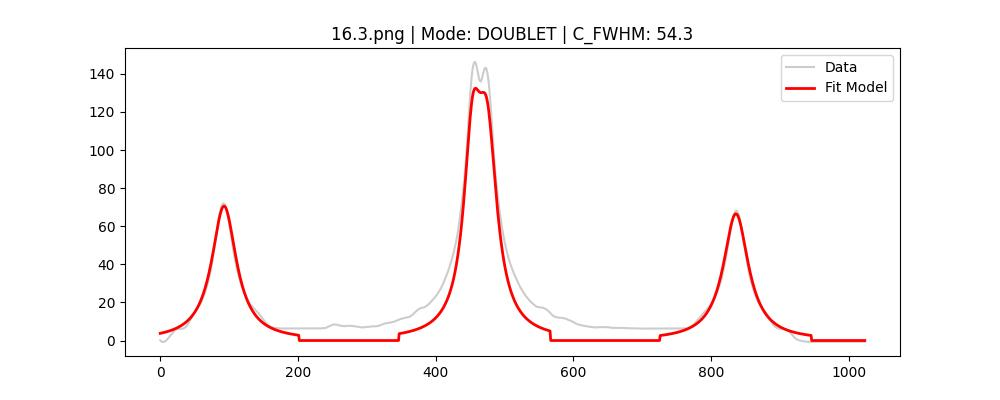
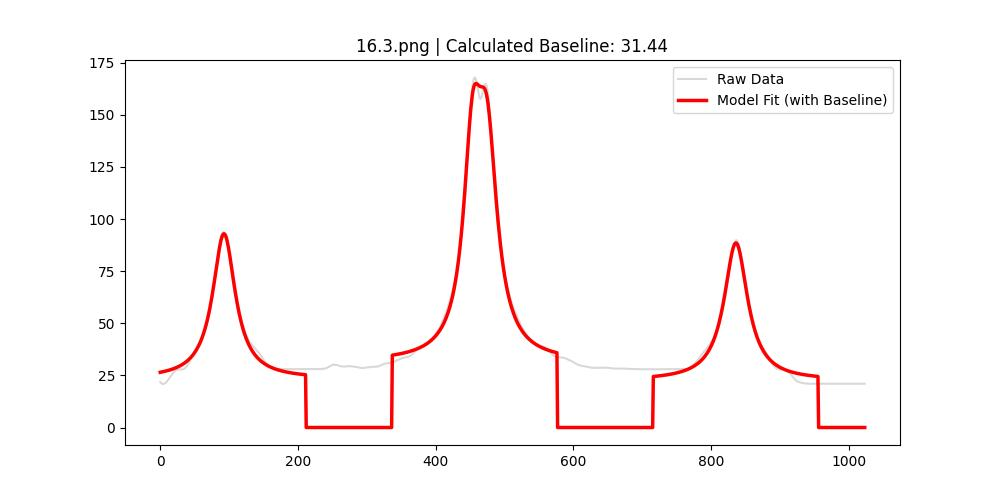
monday 4 draft version

diff --git a/src/analysis/substrateanalyzer.py b/src/analysis/substrateanalyzer.py
@@ -7,7 +7,7 @@ from scipy.signal import find_peaks, savgol_filter
 from scipy.optimize import curve_fit
 
 # --- USER CONFIGURATION ---
-# These are the specific file prefixes that require the Double-Lorentzian fit
+# List of image numbers (from XX.3.png) that require the Double-Lorentzian fit
 DOUBLET_FILES = [11, 13, 14, 16, 17, 19, 20, 21, 25, 26, 28, 31]
 
 INPUT_DIR = "data/raw/mbesubstrate"
@@ -15,33 +15,35 @@ OUTPUT_DIR = "data/processed/physics_analysis/substrate"
 DIAG_DIR = os.path.join(OUTPUT_DIR, "diagnostics")
 
 
-# --- MODELS ---
-def lorentzian(x, amp, ctr, hwhm):
-    return amp * hwhm**2 / ((x - ctr) ** 2 + hwhm**2)
+# --- MODELS WITH DYNAMIC BASELINE (y0) ---
+def lorentzian(x, amp, ctr, hwhm, y0):
+    """Lorentzian that sits on a variable baseline (y0)."""
+    return (amp * hwhm**2 / ((x - ctr) ** 2 + hwhm**2)) + y0
 
 
-def double_lorentzian(x, a1, c1, w1, a2, c2, w2):
-    return lorentzian(x, a1, c1, w1) + lorentzian(x, a2, c2, w2)
+def double_lorentzian(x, a1, c1, w1, a2, c2, w2, y0):
+    """Double Lorentzian sharing a single background baseline."""
+    return lorentzian(x, a1, c1, w1, 0) + lorentzian(x, a2, c2, w2, 0) + y0
 
 
 def process_substrate(path):
-    img = cv2.imread(path, 0)
-    if img is None:
+    img_raw = cv2.imread(path, 0)
+    if img_raw is None:
         return None
-    img = cv2.resize(img, (1024, 1024))
+    img = cv2.resize(img_raw, (1024, 1024))
     filename = os.path.basename(path)
 
-    # Precise parsing for "11.3.png" -> 11
     try:
         file_num = int(filename.split(".")[0])
     except:
         file_num = -1
 
+    # Profile extraction from center band
     profile = np.mean(img[480:540, :], axis=0)
     smoothed = savgol_filter(profile, 25, 3)
 
-    # Catch peaks using prominence to handle background noise
-    peaks, props = find_peaks(smoothed, prominence=8, distance=150)
+    # Identify the three main streaks
+    peaks, _ = find_peaks(smoothed, prominence=8, distance=150)
     if len(peaks) < 3:
         peaks = np.argsort(smoothed)[-3:]
 
@@ -50,38 +52,91 @@ def process_substrate(path):
 
     x = np.arange(1024)
     visual_fit = np.zeros(1024)
-    res = {"filename": filename, "fwhm_L": 0.0, "fwhm_C": 0.0, "fwhm_R": 0.0}
+    # Added 'baseline' to the results dictionary to track it per image
+    res = {
+        "filename": filename,
+        "fwhm_L": 0.0,
+        "fwhm_C": 0.0,
+        "fwhm_R": 0.0,
+        "baseline": 0.0,
+    }
 
     for i, p_loc in enumerate(best_peaks):
-        win = 110
+        win = 120
         idx = np.arange(max(0, p_loc - win), min(1024, p_loc + win))
         x_loc = x[idx]
-        y_loc = smoothed[idx] - np.min(smoothed[idx])  # Local baseline correction
+        y_loc = smoothed[idx]
+
+        # Identify the floor guess for this specific image
+        floor_guess = np.min(y_loc)
 
         try:
-            # Force doublet logic for your specific list
             if i == center_idx and file_num in DOUBLET_FILES:
-                p0 = [np.max(y_loc), p_loc - 12, 8, np.max(y_loc), p_loc + 12, 8]
-                popt, _ = curve_fit(double_lorentzian, x_loc, y_loc, p0=p0, maxfev=5000)
+                # --- OFFSET DOUBLET FIT ---
+                amp_seed = np.max(y_loc) - floor_guess
+                p0 = [amp_seed, p_loc - 12, 15, amp_seed, p_loc + 12, 15, floor_guess]
+
+                # Bounds allow the baseline to find its true level
+                lower_b = [
+                    amp_seed * 0.5,
+                    p_loc - 40,
+                    5,
+                    amp_seed * 0.5,
+                    p_loc + 2,
+                    5,
+                    0,
+                ]
+                upper_b = [
+                    amp_seed * 3.0,
+                    p_loc - 2,
+                    65,
+                    amp_seed * 2.5,
+                    p_loc + 40,
+                    65,
+                    floor_guess + 50,
+                ]
+
+                popt, _ = curve_fit(
+                    double_lorentzian,
+                    x_loc,
+                    y_loc,
+                    p0=p0,
+                    bounds=(lower_b, upper_b),
+                    maxfev=5000,
+                )
                 visual_fit[idx] = double_lorentzian(x_loc, *popt)
-                res["fwhm_C"] = abs(popt[1] - popt[4]) + (abs(popt[2]) + abs(popt[5]))
+                res["fwhm_C"] = round(
+                    abs(popt[1] - popt[4]) + (abs(popt[2]) + abs(popt[5])), 2
+                )
+                res["baseline"] = round(popt[6], 2)  # Capture calculated baseline
             else:
-                p0 = [np.max(y_loc), p_loc, 10]
-                popt, _ = curve_fit(lorentzian, x_loc, y_loc, p0=p0, maxfev=3000)
+                # --- OFFSET SINGLET FIT ---
+                amp_seed = np.max(y_loc) - floor_guess
+                p0 = [amp_seed, p_loc, 15, floor_guess]
+                lower_b = [amp_seed * 0.5, p_loc - 35, 5, 0]
+                upper_b = [amp_seed * 2.5, p_loc + 35, 65, floor_guess + 50]
+
+                popt, _ = curve_fit(
+                    lorentzian,
+                    x_loc,
+                    y_loc,
+                    p0=p0,
+                    bounds=(lower_b, upper_b),
+                    maxfev=3000,
+                )
                 visual_fit[idx] = lorentzian(x_loc, *popt)
                 key = ["fwhm_L", "fwhm_C", "fwhm_R"][i]
-                res[key] = abs(popt[2] * 2)
+                res[key] = round(abs(popt[2] * 2), 2)
+                if i == center_idx:
+                    res["baseline"] = round(popt[3], 2)
         except:
             continue
 
-    # Diagnostic output
-    plt.figure(figsize=(10, 4))
-    plt.plot(
-        x, smoothed - np.percentile(smoothed, 10), color="gray", alpha=0.4, label="Data"
-    )
-    plt.plot(x, visual_fit, color="red", lw=2, label="Fit Model")
-    mode_label = "DOUBLET" if file_num in DOUBLET_FILES else "STANDARD"
-    plt.title(f"{filename} | Mode: {mode_label} | C_FWHM: {res['fwhm_C']:.1f}")
+    # Diagnostic plot showing the true baseline
+    plt.figure(figsize=(10, 5))
+    plt.plot(x, smoothed, color="gray", alpha=0.3, label="Raw Data")
+    plt.plot(x, visual_fit, color="red", lw=2.5, label="Model Fit (with Baseline)")
+    plt.title(f"{filename} | Calculated Baseline: {res['baseline']}")
     plt.legend()
     plt.savefig(os.path.join(DIAG_DIR, f"diag_{filename}.jpg"))
     plt.close()
@@ -91,10 +146,9 @@ def process_substrate(path):
 
 if __name__ == "__main__":
     os.makedirs(DIAG_DIR, exist_ok=True)
-    all_files = [f for f in os.listdir(INPUT_DIR) if f.lower().endswith(".png")]
+    all_files = sorted([f for f in os.listdir(INPUT_DIR) if f.lower().endswith(".png")])
     results = [process_substrate(os.path.join(INPUT_DIR, f)) for f in all_files]
-
     pd.DataFrame([r for r in results if r]).to_csv(
-        os.path.join(OUTPUT_DIR, "substrate_results_final.csv"), index=False
+        os.path.join(OUTPUT_DIR, "final_substrate_results.csv"), index=False
     )
-    print(f"Finished. Diagnostics saved to {DIAG_DIR}")
+    print("Done. Check the CSV for the 'baseline' column to see the calculated values.")
